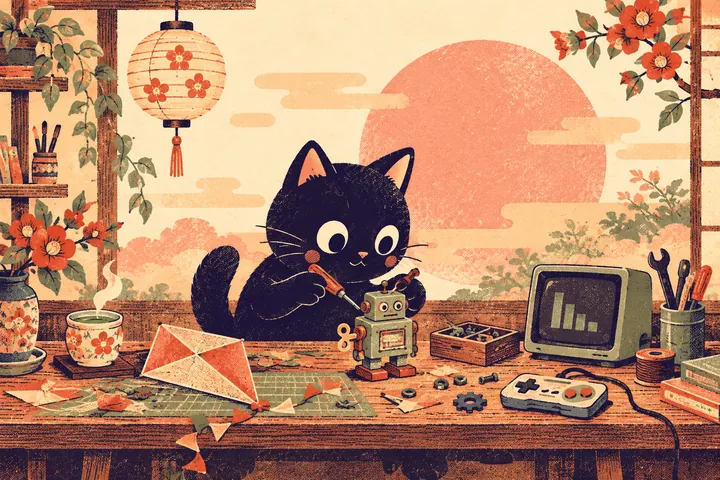
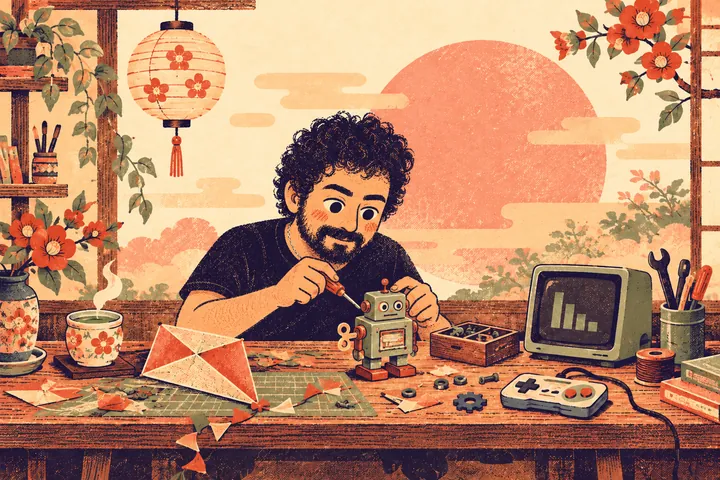
Draw Elvis instead of the cat in the illustrations
The home, about, side projects and 404 illustrations and the cover of
"New era to make apps" now show Elvis, drawn from photos in the same
print style, poses and sizes (no hat). The alt texts, the social card
and AGENTS.md follow.

diff --git a/src/pages/side-projects/side-projects.tsx b/src/pages/side-projects/side-projects.tsx
@@ -40,7 +40,7 @@ const SideProjectsPage = () => {
             sizes="(max-width: 860px) 92vw, 560px"
             width={720}
             height={480}
-            alt="A black cat building a tin robot at a wooden workbench, with a kite, a game controller and a small screen."
+            alt="Elvis building a tin robot at a wooden workbench, with a kite, a game controller and a small screen."
             decoding="async"
           />
           {/* "Side projects" */}

diff --git a/src/pages/blog/blog.tsx b/src/pages/blog/blog.tsx
@@ -37,7 +37,7 @@ const BlogPage = () => {
             sizes="(max-width: 860px) 70vw, 420px"
             width={480}
             height={600}
-            alt="A black cat typing on a laptop at a low wooden desk, next to a bowl of ramen, under a salmon sun."
+            alt="Elvis typing on a laptop at a low wooden desk, next to a bowl of ramen, under a salmon sun."
             fetchPriority="high"
             decoding="async"
           />

diff --git a/src/pages/about/about.tsx b/src/pages/about/about.tsx
@@ -19,7 +19,7 @@ const AboutPage = () => {
           sizes="(max-width: 860px) 60vw, 360px"
           width={420}
           height={525}
-          alt="A black cat in a vermilion bucket hat looking up, with camellia petals drifting by."
+          alt="Portrait of Elvis looking up, with camellia petals drifting by."
           decoding="async"
         />
         {/* "Profile" */}

diff --git a/src/pages/not-found/not-found.tsx b/src/pages/not-found/not-found.tsx
@@ -14,7 +14,7 @@ const NotFoundPage = () => {
           sizes="(max-width: 760px) 70vw, 360px"
           width={400}
           height={400}
-          alt="A black cat under a paper umbrella on a rainy night, holding a map upside down."
+          alt="Elvis under a paper umbrella on a rainy night, holding a map upside down."
           decoding="async"
         />
       </figure>

diff --git a/AGENTS.md b/AGENTS.md
@@ -69,5 +69,5 @@ Showa-era Japanese print: cream paper, indigo ink, salmon and peach, like a 1970
 
 - **Palette** (`src/themes/theme.css`): cream `#FFF5E0`, peach `#FFDBC3`, salmon `#EE9E8E`, indigo `#190933`, plus vermilion `#D9482B`, sage `#9DAA7C` and mustard `#E9A93B` as small accents. Salmon, vermilion, sage and mustard don't reach 4.5:1 on cream: use them for shapes and large display type only; text uses the `--text*` and `--accent-text` tokens, which meet WCAG AA. The dark theme ("night") turns the indigo into the paper. A tiled SVG noise (`--grain` in `src/index.css`) gives the background a paper grain.
 - **Decorative Japanese** (ブログ, プロフィール, ありがとう...) is always `aria-hidden="true"` and `lang="ja"`, with a comment giving its meaning. Keep it to kana so it renders with the bundled font.
-- **Illustrations** live in `public/images/art/` in two widths (`name-<w>.webp` and twice that) for `srcset`. The mascot is an original black cat. Post covers follow the same style. They were generated with Codex's image generation using the user's reference images for style; to keep new ones consistent, describe the post's subject and append: "vintage Japanese screen-print / risograph poster illustration (Showa-era 1960s-70s print aesthetic), flat bold shapes, slightly misregistered ink layers, visible paper grain and subtle halftone dots; palette: deep indigo-black #190933, salmon #EE9E8E, peach #FFDBC3, cream paper #FFF5E0, small touches of vermilion #D9482B and sage #9DAA7C; no text, no logos, no famous or copyrighted characters". Generate landscape and crop the center to 800×457.
+- **Illustrations** live in `public/images/art/` in two widths (`name-<w>.webp` and twice that) for `srcset`. They show Elvis, drawn from reference photos in the same style (no hat or cap). Post covers follow the same style. They were generated with Codex's image generation using the user's reference images for style; to keep new ones consistent, describe the post's subject and append: "vintage Japanese screen-print / risograph poster illustration (Showa-era 1960s-70s print aesthetic), flat bold shapes, slightly misregistered ink layers, visible paper grain and subtle halftone dots; palette: deep indigo-black #190933, salmon #EE9E8E, peach #FFDBC3, cream paper #FFF5E0, small touches of vermilion #D9482B and sage #9DAA7C; no text, no logos, no famous or copyrighted characters". Generate landscape and crop the center to 800×457.
 - **Brand**: the header seal and the favicons (`public/images/favicon*`, `android-chrome-*`, `apple-touch-icon.png`) are a vermilion hanko with "ブレビ" (Brevi); `public/images/og-card.jpg` is the 1200×630 social card.
